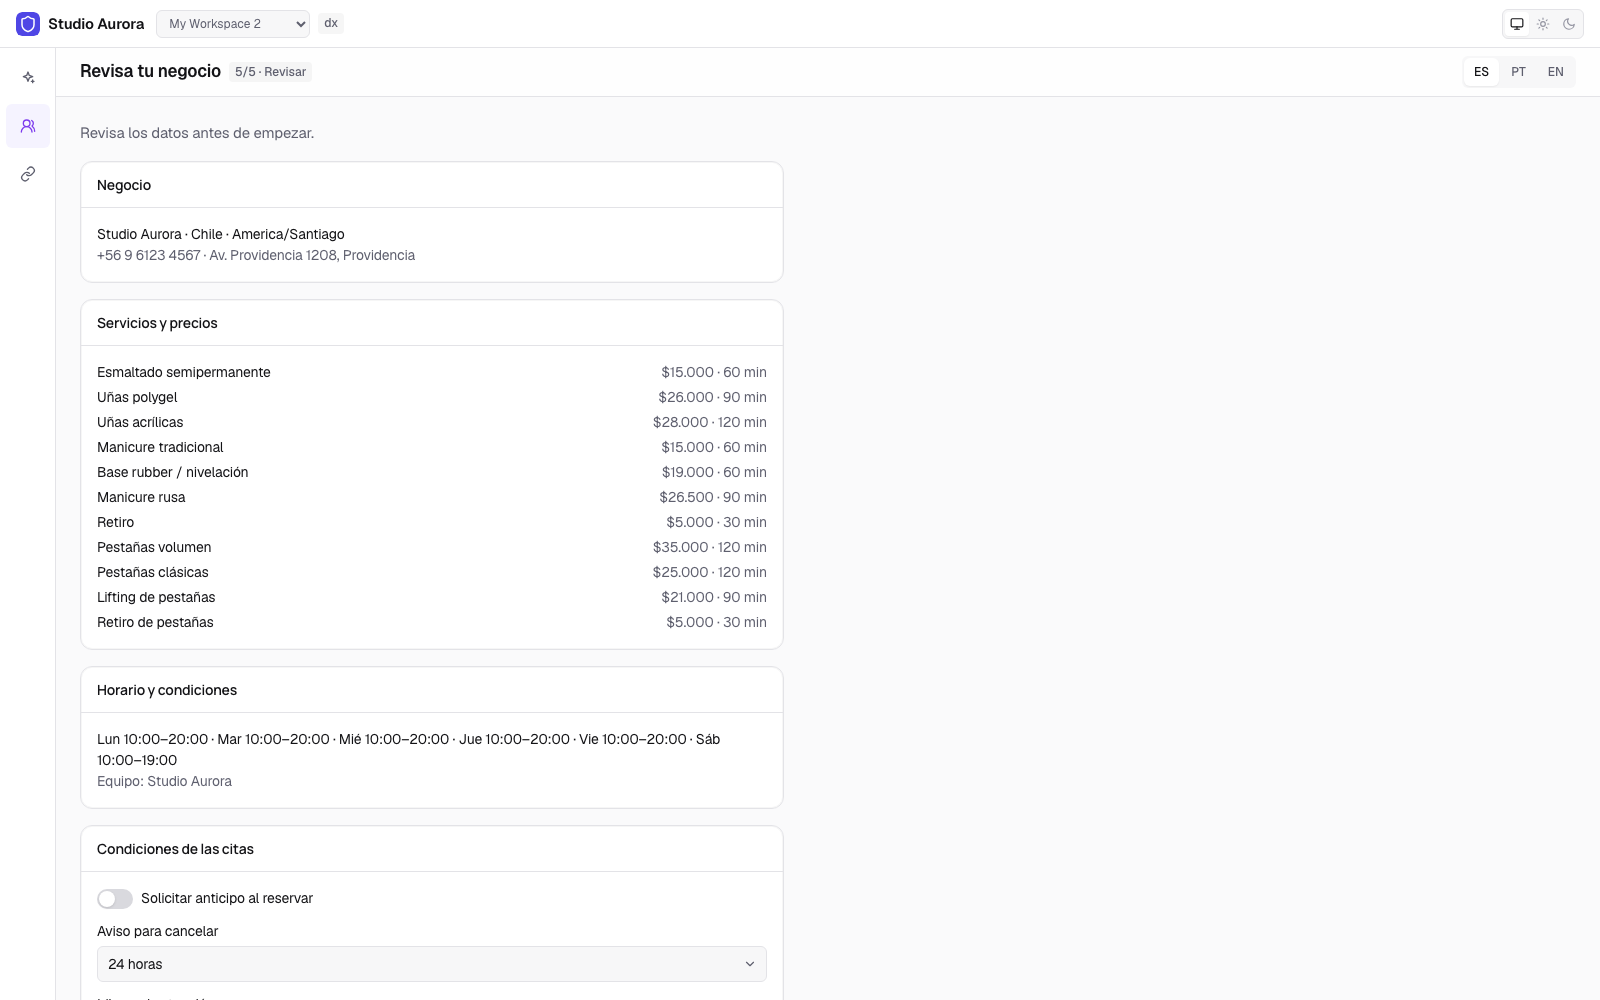
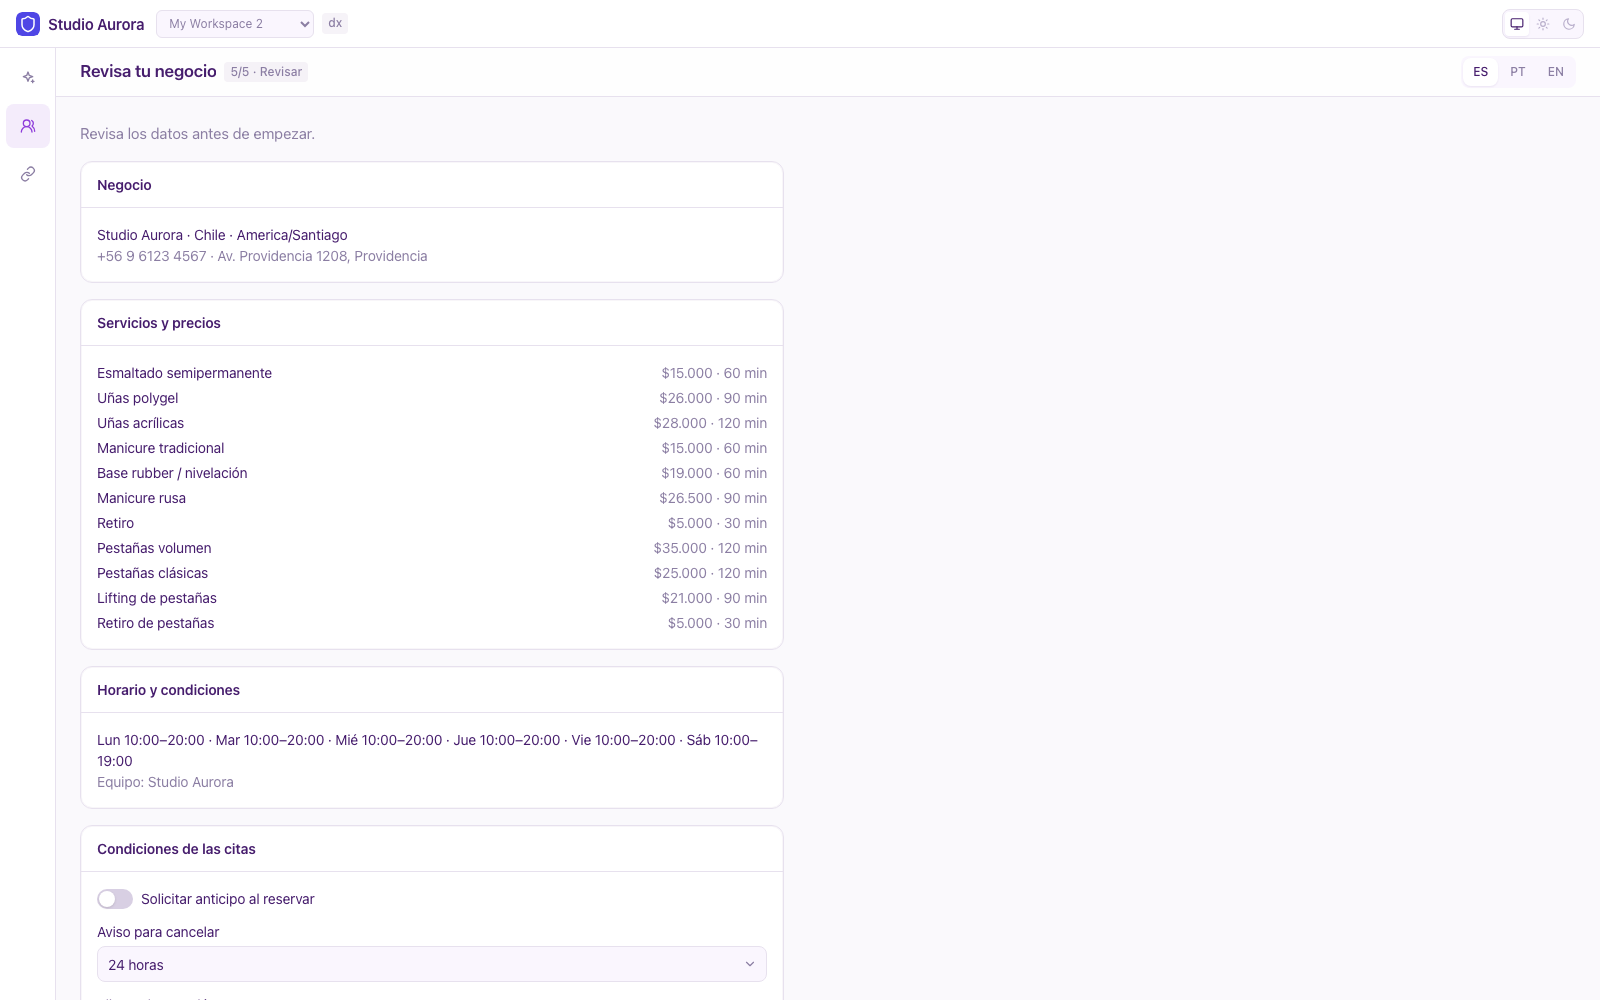
OwnYourProduct: salon theme, inbox, theme and deploy steps in the playbook

diff --git a/apps/ownyourproduct/overlay/src/theme/salon.css b/apps/ownyourproduct/overlay/src/theme/salon.css
@@ -1,0 +1,166 @@
+/*
+ * OwnYourProduct salon theme — the product's palette over the toolkit's tokens.
+ *
+ * The toolkit paints every screen from the custom properties in
+ * src/vendor/ui/styles/tokens.css; nothing in a component names a colour. This
+ * file only re-declares those properties, so the toolkit's screens and the
+ * overlay's take the same palette. src/index.css is wizard-owned: the playbook
+ * asks you to add `@import "./theme/salon.css";` there, as the last import.
+ *
+ * Palette: purple accent (#8e3cda) for actions and selection, coral (#f8747d)
+ * for "now" and focus, deep-purple text on soft purple surfaces, 8 px controls,
+ * the system font. Light and dark.
+ */
+
+:root,
+[data-theme='light'] {
+  --color-surface: #faf9fc;
+  --color-surface-raised: #ffffff;
+  --color-surface-sunken: #faf6fe;
+  --color-surface-hover: #f4ecfb;
+  --color-surface-overlay: #ffffff;
+  --color-surface-inverse: #461d6d;
+  --color-translucent: rgb(70 29 109 / 0.05);
+  --color-translucent-strong: rgb(70 29 109 / 0.08);
+
+  --color-border: #e7e1ee;
+  --color-border-strong: #d8cfe3;
+  --color-border-subtle: #f0ecf4;
+
+  --color-text: #461d6d;
+  --color-text-muted: #8b7ea3;
+  --color-text-faint: #b8aecb;
+  --color-text-inverse: #faf6fe;
+
+  --color-accent: #8e3cda;
+  --color-accent-hover: #7c34c2;
+  --color-accent-soft: #f4ecfb;
+  --color-accent-fg: #ffffff;
+  --color-focus: #f8747d;
+
+  --color-row-hover: #faf6fe;
+  --color-row-selected: #f4ecfb;
+  --color-row-selected-hover: #ecdff8;
+  --color-skeleton: #f0ecf4;
+  --color-skeleton-highlight: #faf6fe;
+
+  --color-selection-fill: rgb(142 60 218 / 0.1);
+  --color-selection-stroke: #8e3cda;
+  --color-edge-selected: #8e3cda;
+  --color-handle-active: #8e3cda;
+  --color-bubble-out: #8e3cda;
+  --color-bubble-out-fg: #f4ecfb;
+  --color-run-active: #8e3cda;
+  --color-run-active-soft: #f4ecfb;
+  --color-pipeline-1: #8e3cda;
+  --color-pipeline-6: #f8747d;
+  --color-now: #f8747d;
+  --color-guide: #f8747d;
+
+  --selection-bg: #ecdff8;
+  --elevation-tint: rgb(70 29 109 / 0.08);
+  --elevation-tint-strong: rgb(70 29 109 / 0.12);
+  --elevation-ring: rgb(70 29 109 / 0.06);
+  --hairline-inset: rgb(70 29 109 / 0.04);
+  --hairline-ring: rgb(70 29 109 / 0.08);
+
+  --radius-control: 0.5rem;
+  --font-sans: ui-sans-serif, system-ui, -apple-system, 'Segoe UI', Roboto, Helvetica, Arial, sans-serif;
+  --font-display: ui-sans-serif, system-ui, -apple-system, 'Segoe UI', Roboto, Helvetica, Arial, sans-serif;
+}
+
+/* Dark: the same purple, lifted for dark surfaces. Applies when the OS is dark
+   and no theme is pinned, and when the top-bar toggle pins dark. */
+@media (prefers-color-scheme: dark) {
+  :root:not([data-theme]) {
+    --color-surface: #15101c;
+    --color-surface-raised: #1c1526;
+    --color-surface-sunken: #120d19;
+    --color-surface-hover: #241a30;
+    --color-surface-overlay: #1c1526;
+    --color-surface-inverse: #faf6fe;
+    --color-translucent: rgb(243 236 250 / 0.05);
+    --color-translucent-strong: rgb(243 236 250 / 0.08);
+    --color-border: #2e2440;
+    --color-border-strong: #3a2d4e;
+    --color-border-subtle: #241a30;
+    --color-text: #f3ecfa;
+    --color-text-muted: #b8aecb;
+    --color-text-faint: #8b7ea3;
+    --color-text-inverse: #15101c;
+    --color-accent: #a866ea;
+    --color-accent-hover: #b77cf0;
+    --color-accent-soft: #2a1d3d;
+    --color-accent-fg: #ffffff;
+    --color-focus: #f8747d;
+    --color-row-hover: #1c1526;
+    --color-row-selected: #2a1d3d;
+    --color-row-selected-hover: #33244a;
+    --color-skeleton: #241a30;
+    --color-skeleton-highlight: #2e2440;
+    --color-selection-fill: rgb(168 102 234 / 0.18);
+    --color-selection-stroke: #a866ea;
+    --color-edge-selected: #a866ea;
+    --color-handle-active: #a866ea;
+    --color-bubble-out: #8e3cda;
+    --color-bubble-out-fg: #f4ecfb;
+    --color-run-active: #a866ea;
+    --color-run-active-soft: #2a1d3d;
+    --color-pipeline-1: #a866ea;
+    --color-pipeline-6: #f8747d;
+    --color-now: #f8747d;
+    --color-guide: #f8747d;
+    --selection-bg: #3a2d4e;
+    --elevation-tint: rgb(0 0 0 / 0.35);
+    --elevation-tint-strong: rgb(0 0 0 / 0.5);
+    --elevation-ring: rgb(243 236 250 / 0.06);
+    --hairline-inset: rgb(243 236 250 / 0.04);
+    --hairline-ring: rgb(243 236 250 / 0.08);
+  }
+}
+
+[data-theme='dark'] {
+  --color-surface: #15101c;
+  --color-surface-raised: #1c1526;
+  --color-surface-sunken: #120d19;
+  --color-surface-hover: #241a30;
+  --color-surface-overlay: #1c1526;
+  --color-surface-inverse: #faf6fe;
+  --color-translucent: rgb(243 236 250 / 0.05);
+  --color-translucent-strong: rgb(243 236 250 / 0.08);
+  --color-border: #2e2440;
+  --color-border-strong: #3a2d4e;
+  --color-border-subtle: #241a30;
+  --color-text: #f3ecfa;
+  --color-text-muted: #b8aecb;
+  --color-text-faint: #8b7ea3;
+  --color-text-inverse: #15101c;
+  --color-accent: #a866ea;
+  --color-accent-hover: #b77cf0;
+  --color-accent-soft: #2a1d3d;
+  --color-accent-fg: #ffffff;
+  --color-focus: #f8747d;
+  --color-row-hover: #1c1526;
+  --color-row-selected: #2a1d3d;
+  --color-row-selected-hover: #33244a;
+  --color-skeleton: #241a30;
+  --color-skeleton-highlight: #2e2440;
+  --color-selection-fill: rgb(168 102 234 / 0.18);
+  --color-selection-stroke: #a866ea;
+  --color-edge-selected: #a866ea;
+  --color-handle-active: #a866ea;
+  --color-bubble-out: #8e3cda;
+  --color-bubble-out-fg: #f4ecfb;
+  --color-run-active: #a866ea;
+  --color-run-active-soft: #2a1d3d;
+  --color-pipeline-1: #a866ea;
+  --color-pipeline-6: #f8747d;
+  --color-now: #f8747d;
+  --color-guide: #f8747d;
+  --selection-bg: #3a2d4e;
+  --elevation-tint: rgb(0 0 0 / 0.35);
+  --elevation-tint-strong: rgb(0 0 0 / 0.5);
+  --elevation-ring: rgb(243 236 250 / 0.06);
+  --hairline-inset: rgb(243 236 250 / 0.04);
+  --hairline-ring: rgb(243 236 250 / 0.08);
+}

diff --git a/apps/ownyourproduct/playbook.md b/apps/ownyourproduct/playbook.md
@@ -24,7 +24,24 @@ in the switch before verifying.
 
 Work through the steps in order and verify each before the next.
 
-## 1. Register the Comment Studio and Set-up modules
+## 1. Theme and the inbox
+
+The overlay ships the salon theme in `src/theme/salon.css`: the product's
+palette (purple actions, coral for "now" and focus, deep-purple text on soft
+purple surfaces), 8 px controls and the system font, light and dark. Every
+screen, the toolkit's and the overlay's, paints from the same tokens, so this
+one file restyles the whole app. `src/index.css` is wizard-owned, so add the
+import there yourself: `@import "./theme/salon.css";` as the LAST import,
+after the `@chatfuel:end-ui-css` line.
+
+The inbox is the toolkit's own `livechat` module; the preset installs it and
+the overlay adds nothing to it.
+
+Verify: the primary button is purple (#8e3cda) and the calendar's "now" line
+coral; pinning dark in the top bar keeps a purple accent on dark surfaces;
+`/livechat` opens the inbox.
+
+## 2. Register the Comment Studio and Set-up modules
 
 The wizard generates `src/modules/index.ts` from the modules it installed, so
 the overlay could not add to it (wizard-owned). You can:
@@ -43,7 +60,7 @@ ES selected the screen renders "Tu negocio" with a "Continuar" button;
 `/comment-studio` renders the header "Comment Studio" with the status tag
 "Apagado" and the language switch ES / PT / EN.
 
-## 2. Run the modules' tests and the typecheck
+## 3. Run the modules' tests and the typecheck
 
 The overlay ships its own tests: Comment Studio's write plan, runner contract,
 read-back and generated texts; Set-up's publish plan, its idempotent runner
@@ -53,7 +70,7 @@ which the manifest declares and the wizard installs.
 Verify: `npx vitest run src/modules/comment-studio src/modules/salon-onboarding`
 reports every test passed, and `npm run check` is clean.
 
-## 3. Set a salon up with Set-up
+## 4. Set a salon up with Set-up
 
 Sign in and open `/salon-onboarding`. Enter the business (name, country,
 phone, address), pick the specialities, keep or edit the suggested services
@@ -67,7 +84,7 @@ hours and a cancellation rule in the additional instructions; Bookings settings
 show appointment confirmation switched on. Pressing "Guardar y empezar" again
 creates nothing twice.
 
-## 4. Team levels: apply the app migration and register Team
+## 5. Team levels: apply the app migration and register Team
 
 The overlay ships `supabase/app-migrations/0019_staff_access.sql`: two levels
 of staff access on the auth module's own tables. A Manager is an admin; a
@@ -87,7 +104,7 @@ can invite "ana@salon.cl" as a Specialist linked to a Bookings specialist and
 copy the invitation link, and the auth module's Team page still opens and
 still lists the same people.
 
-## 5. Specialists see only their own calendar
+## 6. Specialists see only their own calendar
 
 `cf_my_workspace` now returns `specialist_id` for a member. In the bookings
 module, when the signed-in membership carries a `specialist_id`, preselect
@@ -102,7 +119,7 @@ current specialist) differs from it.
 Verify: sign in as the invited specialist; the calendar opens on her column
 and the switcher is gone; a manager still sees every column.
 
-## 6. Connect Instagram and turn Comment Studio on
+## 7. Connect Instagram and turn Comment Studio on
 
 Sign in, connect the salon's Instagram account in Channels, enter two or
 three services with prices in the Knowledge Base, then open Comment Studio:
@@ -116,7 +133,7 @@ Direct, link-in-bio and story sources are off; back in Comment Studio the tag
 reads "Activo". Comment "precio?" on a post from another account: the public
 reply lands under the comment and the Direct arrives.
 
-## 7. Money: apply the app migration and register Money
+## 8. Money: apply the app migration and register Money
 
 The overlay ships `supabase/app-migrations/0030_money.sql`: two tables next
 to the auth schema, expenses and supply purchases, readable and writable by
@@ -133,7 +150,7 @@ the same month; an expense added on the "Gastos" tab lowers "Ganancia neta"
 by its amount and appears in the CSV download; a specialist signed in sees
 only the "managers only" notice.
 
-## 8. Mail: recovery through Supabase, invitations through Resend
+## 9. Mail: recovery through Supabase, invitations through Resend
 
 Sign-in, verification and recovery e-mails are the auth module's and come from
 Supabase Auth; point its SMTP at Resend in the Supabase dashboard (Auth →
@@ -152,15 +169,29 @@ Verify: `npx vitest run server/mail` passes; with the route mounted and the
 key set, an invitation from Team arrives in the mailbox with the salon's
 name and a link that opens the app's invite page.
 
-## 9. Sign-up lands in Set-up
+## 10. Sign-up lands in Set-up
 
 A new salon that signs up through the auth module gets its bot from the
-wizard's sign-up flow and is sent to `/`, which step 1 made Set-up. Keep it
+wizard's sign-up flow and is sent to `/`, which step 2 made Set-up. Keep it
 that way: the first minute must be "your services, your hours, done", not a
 tour of seven modules.
 
 Verify: sign up with a fresh e-mail; the first screen is Set-up on "Tu
 negocio".
+
+## 11. Put it online
+
+The wizard does not deploy. From the app directory run `npm run deploy`: it
+puts the app on Vercel through the Vercel CLI (a Vercel login is asked once,
+the free tier is enough, no Git repository needed) and prints the production
+URL. Then in Supabase, Authentication → URL configuration, add that origin to
+the redirect allowlist, or sign-in links keep pointing at localhost. If the
+Vercel team has Deployment Protection on, turn it off for this project or the
+salon's staff will meet a Vercel login wall.
+
+Verify: the production URL opens the sign-in screen; signing in lands on
+Set-up (or the calendar once the salon is set up); a booking made in the
+calendar shows up in the Chatfuel dashboard for the same bot.
 
 ## Out of scope
 

diff --git a/apps/ownyourproduct/README.md b/apps/ownyourproduct/README.md
@@ -6,13 +6,14 @@ A beauty salon's booking business under your own name: set-up in five steps, Ins
 npx @chatfuel/wizard --app ownyourproduct
 ```
 
-Modules: `bookings` (calendar, services, staff), `contacts`, `knowledge-base`, `automations`, `channels` (Instagram, WhatsApp, the web widget), `auth` (accounts) and `admin` — the four product screens ship in this app's overlay under `src/modules/`.
+Modules: `bookings` (calendar, services, staff), `contacts`, `knowledge-base`, `automations`, `livechat` (the inbox), `channels` (Instagram, WhatsApp, the web widget), `auth` (accounts) and `admin` — the four product screens ship in this app's overlay under `src/modules/`.
 
 - **Set-up** (`src/modules/salon-onboarding/`): business, specialities, services, hours and team in five steps, in Spanish, Portuguese or English. Services come pre-filled per speciality with prices anchored to the salon's country; publishing writes them into Bookings and the Knowledge Base, and running set-up again updates instead of duplicating.
 - **Comment Studio** (`src/modules/comment-studio/`): one keyword rule on Instagram post comments — a fixed public reply under the comment and a Direct quoting the prices from the Knowledge Base. No AI, no per-message cost; texts per language ready to edit.
 - **Team** (`src/modules/equipo/`): owner, manager and specialist levels on top of the auth module, invitations by e-mail, a specialist linked to her column in Bookings. Migration `supabase/app-migrations/0019_staff_access.sql`.
 - **Money** (`src/modules/money/`): revenue by service, specialist and client per period, next to expenses and supplies, with a CSV export — computed from the bookings themselves. Migration `supabase/app-migrations/0030_money.sql`.
 - **Mail** (`server/mail/`): the staff invitation e-mail, sent through Resend.
+- **Theme** (`src/theme/salon.css`): the product's palette over the toolkit's tokens, light and dark, one import line away (playbook step 1).
 - All strings live in each module's copy file (`screen-copy.ts`, `prepare-copy.ts`, `copy.ts`), never inline.
 
 Adds one npm dependency, `libphonenumber-js` (pure JS, no install scripts), to validate the salon's contact phone per country.

diff --git a/apps/ownyourproduct/listing.md b/apps/ownyourproduct/listing.md
@@ -1,6 +1,6 @@
 ## The salon's day, under your own name
 
-A nail or lash studio's Instagram fills with the same two questions under every post — how much, and when. This app is the business behind those questions: a booking calendar customers reach through the channels you connect, a client list, a knowledge base that holds your real prices, and a Comment Studio that answers price-and-time comments with a fixed public reply and a Direct quoting those prices — in Spanish, Portuguese or English.
+A nail or lash studio's Instagram fills with the same two questions under every post — how much, and when. This app is the business behind those questions: a booking calendar customers reach through the channels you connect, a client list, an inbox, a knowledge base that holds your real prices, and a Comment Studio that answers price-and-time comments with a fixed public reply and a Direct quoting those prices — in Spanish, Portuguese or English.
 
 ## Set up in five steps
 
